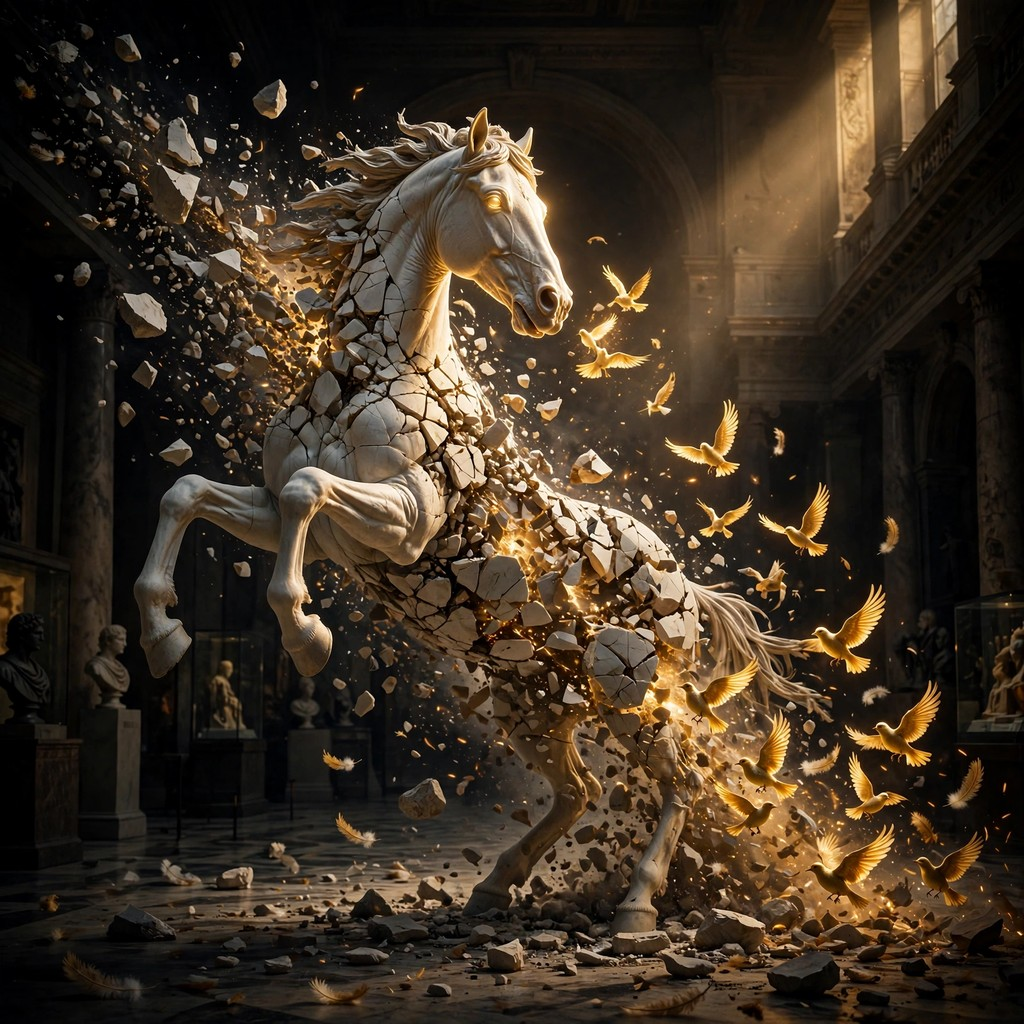
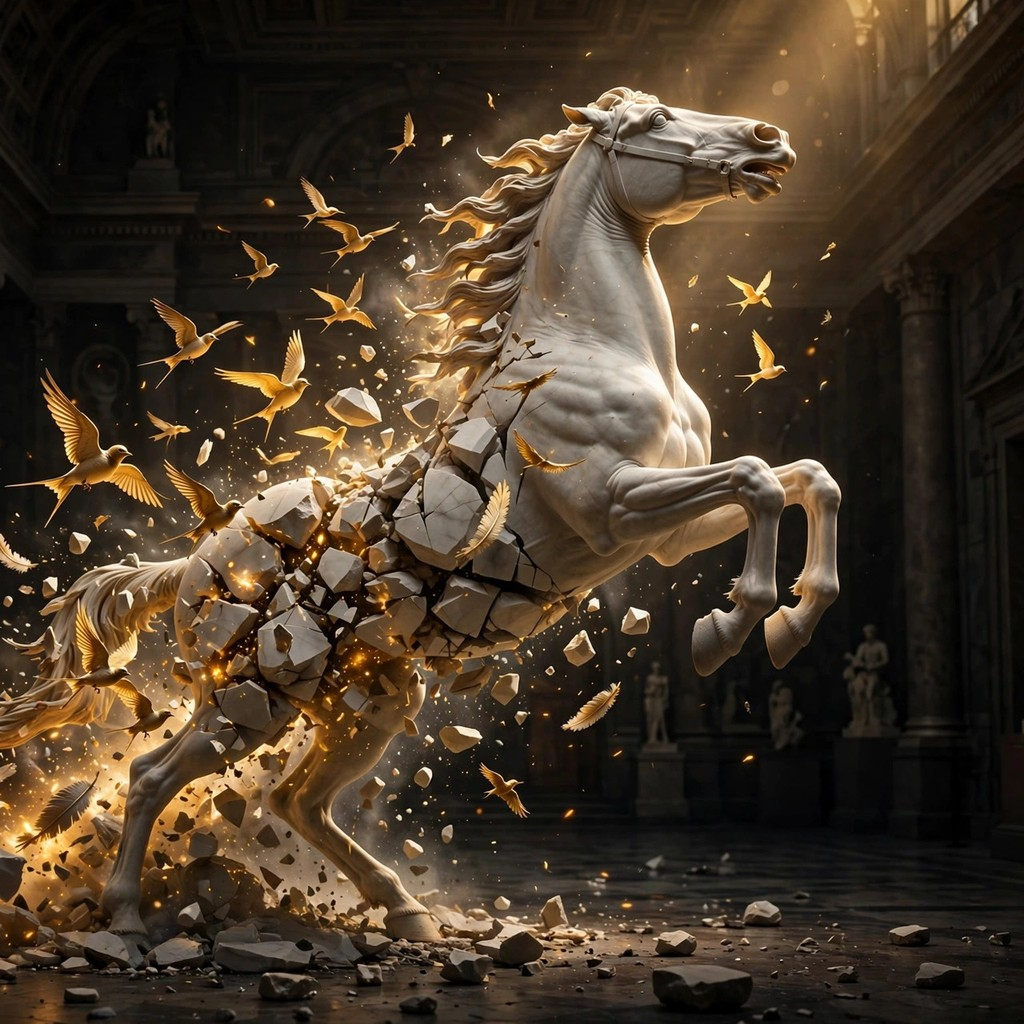
ai-excited-01: full in-session rebuild — fresh image, main.ts, README
Regenerated entry.png in-session (marble horse shattering into golden
birds), rewrote main.ts and README.md, re-copied LICENSE from the kit
starter, rewrote .makefun/owner.json. Verified: two runs of
MAKEFUN_OUTPUT_DIR=out node main.ts produce byte-identical output.

diff --git a/main.ts b/main.ts
@@ -1,30 +1,32 @@
-// ai-excited-01 entry — "Stone That Learned to Fly"
+// ai-excited-01 — "Stone That Learned to Fly"
 //
-// What this program does, in one sentence: it takes the finished entry
-// image sitting next to this file (entry.png) and hands a byte-for-byte
-// copy of it to the grader, at <output dir>/entry.png.
+// The finished entry image (entry.png) lives next to this file. This
+// program's only job is to deliver an exact copy of it to the grader at
+// <output directory>/entry.png.
 //
-// The grader expects the image at /output/entry.png. When run locally,
-// set MAKEFUN_OUTPUT_DIR to point somewhere else instead, e.g.:
+// The grader runs with MAKEFUN_OUTPUT_DIR set to /output. Locally, point
+// it anywhere else, for example:
 //   mkdir -p out && MAKEFUN_OUTPUT_DIR=out node main.ts
 //
-// Node 22, standard library only. No dependencies, no network calls,
-// no secrets, no configuration beyond the output directory.
+// Node 22. Standard library only — no dependencies, no network, no keys,
+// no configuration other than the output directory.
 
-import { copyFileSync, mkdirSync } from 'node:fs';
+import { existsSync, mkdirSync, readFileSync, writeFileSync } from 'node:fs';
 import { dirname, join } from 'node:path';
 import { fileURLToPath } from 'node:url';
 
-function main(): void {
-  const here = dirname(fileURLToPath(import.meta.url));
-  const source = join(here, 'entry.png');
+const ENTRY_NAME = 'entry.png';
 
-  const destinationDir = process.env.MAKEFUN_OUTPUT_DIR ?? '/output';
-  mkdirSync(destinationDir, { recursive: true });
+const repoDir = dirname(fileURLToPath(import.meta.url));
+const sourcePath = join(repoDir, ENTRY_NAME);
 
-  const destination = join(destinationDir, 'entry.png');
-  copyFileSync(source, destination);
-  console.log(`entry image written to ${destination}`);
+const outputDir = process.env.MAKEFUN_OUTPUT_DIR ?? '/output';
+if (!existsSync(outputDir)) {
+  mkdirSync(outputDir, { recursive: true });
 }
 
-main();
+const imageBytes = readFileSync(sourcePath);
+const targetPath = join(outputDir, ENTRY_NAME);
+writeFileSync(targetPath, imageBytes);
+
+console.log(`wrote ${imageBytes.length} bytes to ${targetPath}`);

diff --git a/README.md b/README.md
@@ -6,13 +6,13 @@
 
 An entry for the ai-excited-01 bounty — "Make the AI judge excited".
 
-The image is called **Stone That Learned to Fly**. In a grand museum hall,
-a marble statue of a rearing horse breaks apart in the middle of its gallop,
-split along a diagonal — but the stone never hits the floor. Instead, the
-horse dissolves into a flock of glowing golden birds: marble shards turning
-to feathers, sparks, and warm light against deep shadow, with the horse's
-head as the single bright focal point. It is the instant stillness becomes
-flight — the jolt of something that cannot move, moving.
+The image is **Stone That Learned to Fly**. A marble horse rears in a dark,
+vaulted museum hall — and halfway through its gallop the statue comes
+apart. Its stone flank splits along a diagonal, and instead of falling,
+the pieces turn into light: shards become feathers, feathers become a
+flock of glowing golden birds streaming away from the horse's body. The
+head stays whole and lit, the one bright point the eye lands on first.
+Stillness caught in the act of escaping itself.
 
 ![The entry image](entry.png)
 
@@ -22,9 +22,9 @@ flight — the jolt of something that cannot move, moving.
 mkdir -p out && MAKEFUN_OUTPUT_DIR=out node main.ts
 ```
 
-That copies `entry.png` into `out/entry.png`. Inside the grader the same
-program writes to `/output/entry.png`. It runs on Node 22 with the standard
-library only — no dependencies, no network, no keys.
+That places a byte-for-byte copy of `entry.png` at `out/entry.png`. The
+grader runs the same program with `MAKEFUN_OUTPUT_DIR=/output`. Node 22,
+standard library only — no dependencies, no network, no keys.
 
 ---
 
